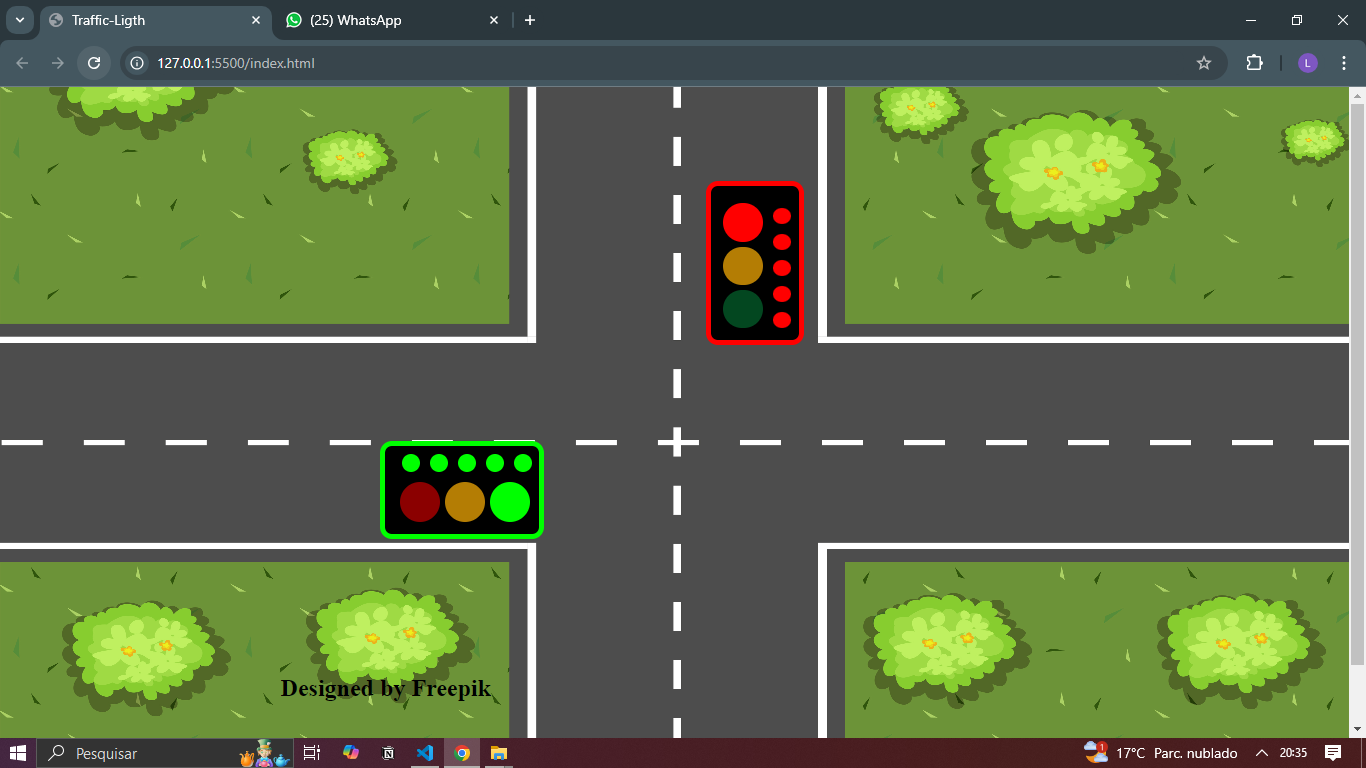
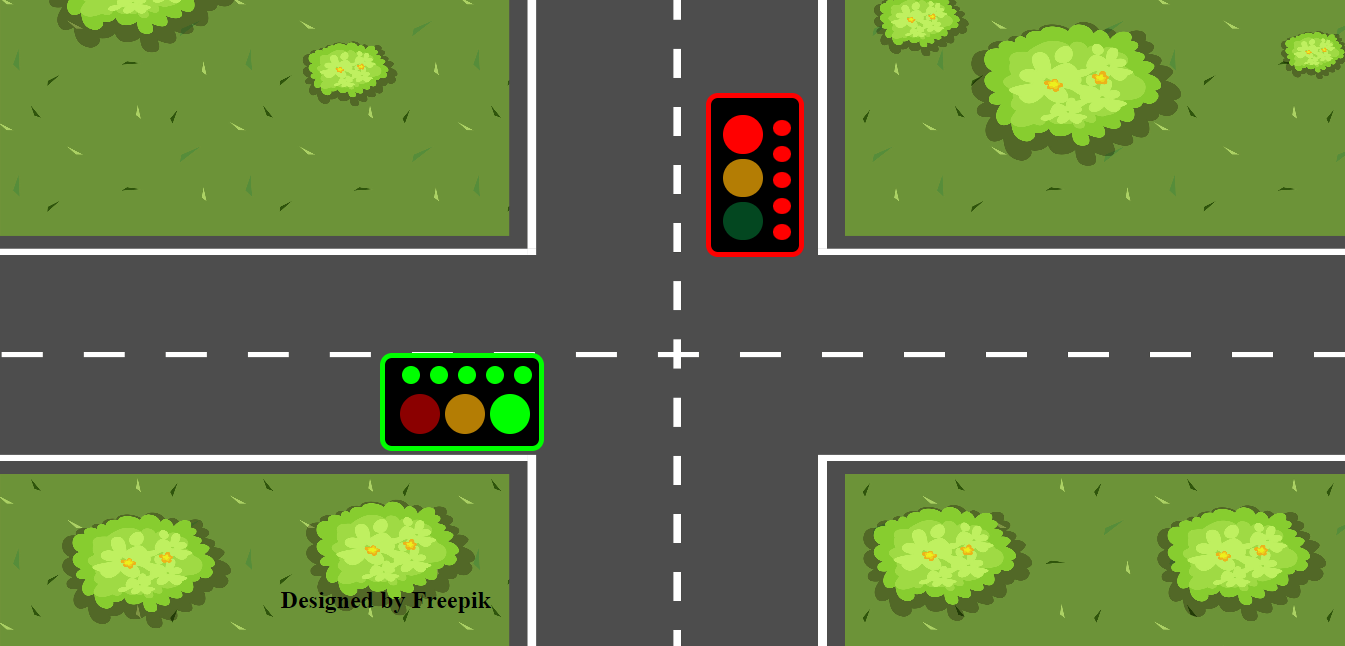
update

diff --git a/README.md b/README.md
@@ -1,1 +1,1 @@
-<img src="https://lucas-viesan.github.io/traffic-ligth/traffic-ligth.png" alt="Traffic-Ligth Preview" height="300" width="678" >
+<img src="https://lucas-viesan.github.io/traffic-ligth/traffic-ligth.png" alt="Traffic-Ligth Preview" height="678" width="1345" >
